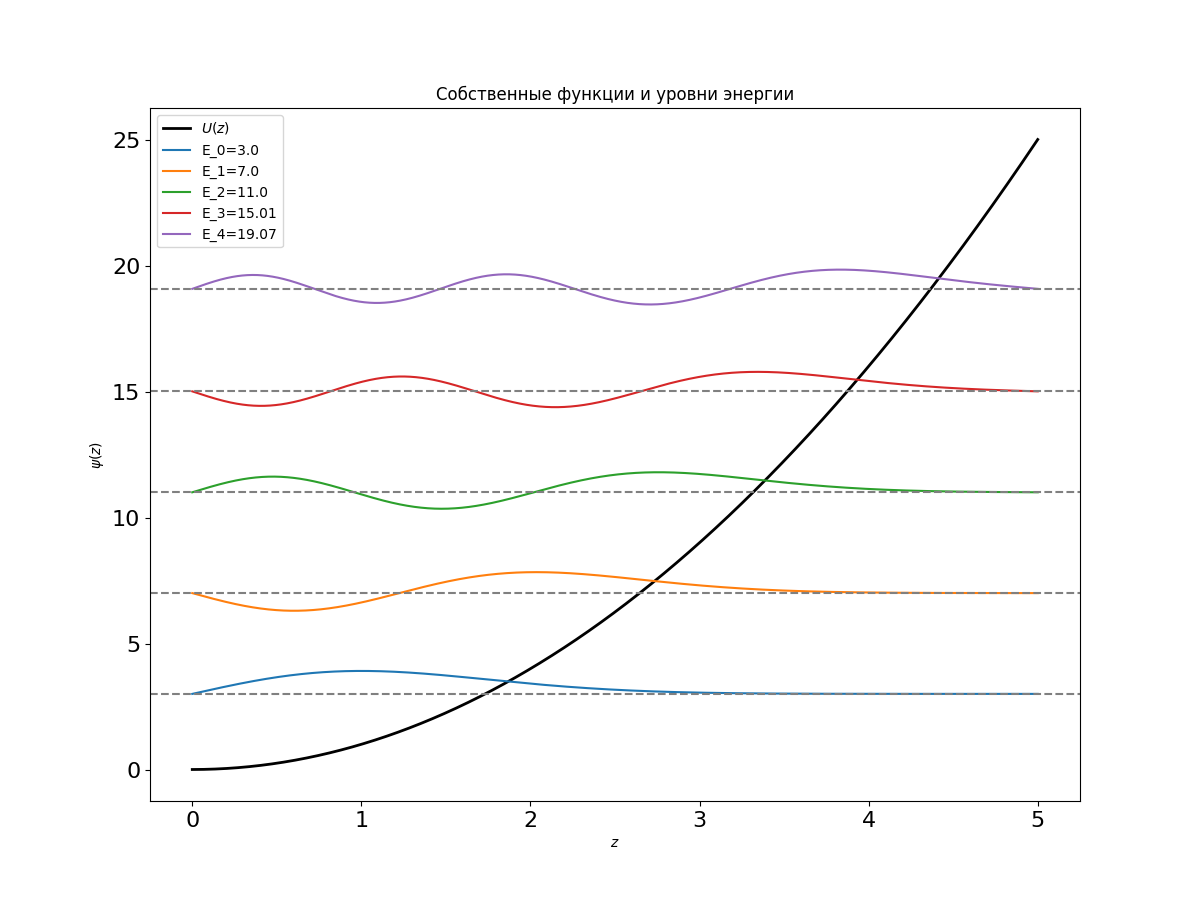
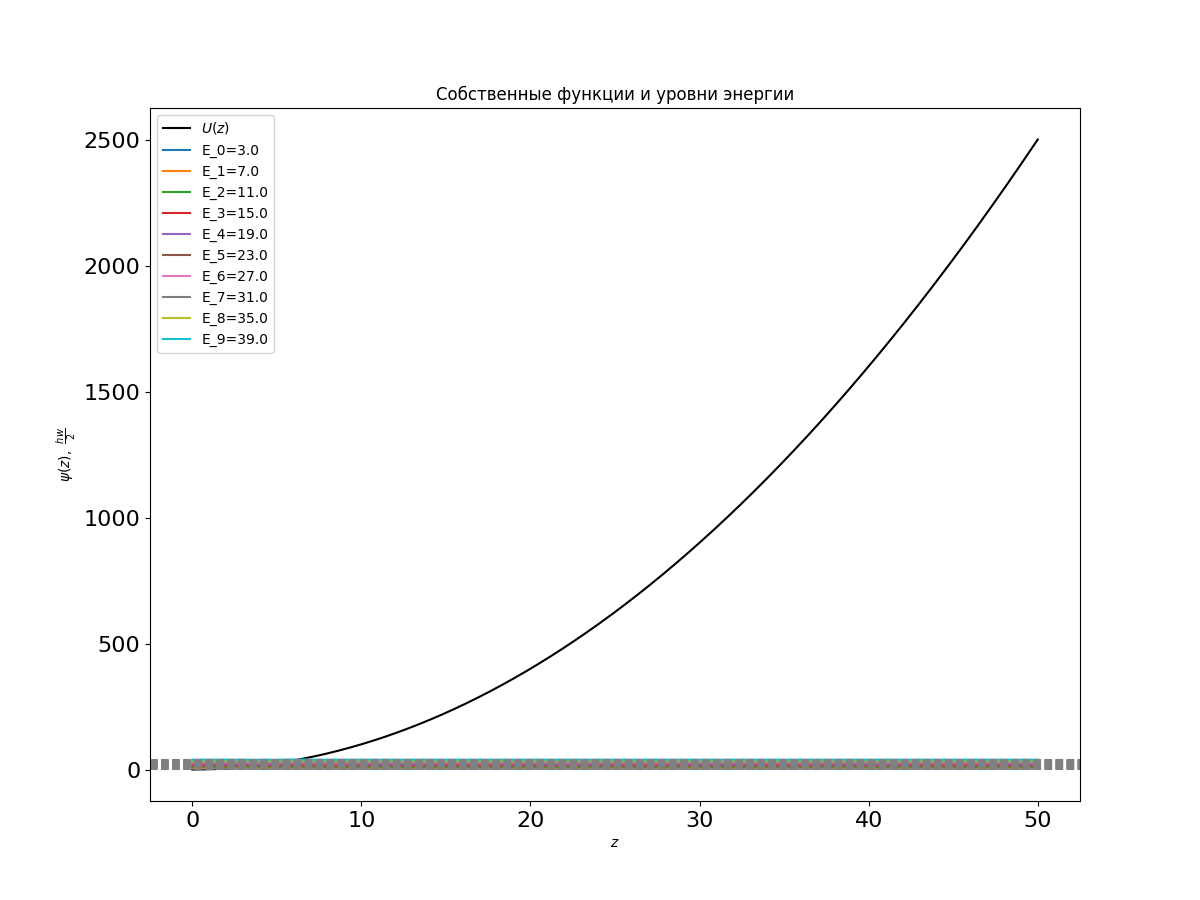
parabola

diff --git a/BasicSolver.py b/BasicSolver.py
@@ -45,7 +45,23 @@ class QuantumWellSolver:
             norm = np.sqrt(np.sum(self.eigenvectors[:, i] ** 2) * self.dz)
             self.eigenvectors[:, i] /= norm
 
-        print([f"E_{i} = {E}" for i, E in enumerate(self.eigenvalues)], sep=";\t")
+    def get_energy(self, printing=True) -> np.ndarray:
+        if self.eigenvalues is None:
+            print("Ничо не посчитано")
+            return np.array([])
+        if printing:
+            print([f"E_{i} = {E}" for i, E in enumerate(self.eigenvalues)], sep=";\t")
+        return self.eigenvalues
+
+    def get_functions(self, printing=True) -> np.ndarray:
+        from pprint import pprint
+
+        if self.eigenvectors is None:
+            print("Ничо не посчитано")
+            return np.array([])
+        if printing:
+            pprint(self.eigenvectors)
+        return self.eigenvectors
 
     def plot_potential(self, path="results/pivo_pot.png"):
         fig, axs = plt.subplots()
@@ -89,16 +105,16 @@ class QuantumWellSolver:
                  }
         c = ["r", "g", "b", "black", "yellow"]
 
-        plt.plot(self.z, self.potential, color='black', label='$U(z)$', lw=2)
+        plt.plot(self.z, self.potential, color='black', label='$U(z)$')
 
         num_levels = min(num_levels_to_plot, len(self.eigenvalues))
 
         for i in range(num_levels):
-            plt.plot(self.z, self.eigenvalues[i] + self.eigenvectors[:, i], label=f"E_{i}={round(self.eigenvalues[i], 2)}")
-            plt.axhline(self.eigenvalues[i], color="gray", linestyle='--')
+            axs.plot(self.z, self.eigenvalues[i] + self.eigenvectors[:, i], label=f"E_{i}={round(self.eigenvalues[i], 2)}")
+            axs.axhline(self.eigenvalues[i], color="gray", linestyle='--')
 
         plt.title("Собственные функции и уровни энергии")
         plt.xlabel(r"$z$")
-        plt.ylabel(r"$\psi(z)$")
+        plt.ylabel(r"$\psi(z),~\frac{hw}{2}$")
         plt.legend()
         plt.savefig(path)

diff --git a/parabola.py b/parabola.py
@@ -1,3 +1,5 @@
+import numpy as np
+
 from BasicSolver import *
 
 
@@ -22,10 +24,36 @@ class HalfParabolicWell(QuantumWellSolver):
         return potential
 
 
-parabola = ParabolicWell(-5, 5, 2000)
-parabola.solve()
-parabola.plot_wavefunctions(path="results/parabola/1_wave.png")
+def check_dependence(energies: np.ndarray, gipotesis=lambda x: 2 * x + 1, path="results/pivo_gipotesis.png"):
+    fig, axs = plt.subplots()
+    plt.tick_params(axis='both', labelsize=16)
+    fig.set_size_inches(12, 9)
+    font1 = {'family': 'serif',
+             'color': 'black',
+             'weight': 'normal',
+             'size': 20,
+             }
+    font2 = {'family': 'serif',
+             'color': 'black',
+             'weight': 'normal',
+             'size': 24,
+             }
+    c = ["r", "g", "b", "black", "yellow"]
+    axs.plot(range(len(energies)), energies, label='Моделирование')
+    axs.plot(range(len(energies)), [gipotesis(i) for i in range(len(energies))], label='Модель')
+    plt.title("Собственные функции и уровни энергии")
+    plt.xlabel(r"n")
+    plt.ylabel(r"$\frac{E}{\frac{hw}{2}}$")
+    plt.legend()
+    plt.savefig(path)
 
-half_parabola = HalfParabolicWell(5, 2000)
-half_parabola.solve(num_levels=5)
+
+parabola = ParabolicWell(-50, 50, 20000)
+parabola.solve(num_levels=100)
+parabola.plot_wavefunctions(path="results/parabola/1_wave.png")
+check_dependence(parabola.get_energy(), lambda x: 2*x + 1, "results/parabola/1_gip.png")
+
+half_parabola = HalfParabolicWell(50, 20000)
+half_parabola.solve(num_levels=50)
 half_parabola.plot_wavefunctions(path="results/half_parabola/1_wave.png")
+check_dependence(half_parabola.get_energy(), lambda x: 4*x + 3, "results/half_parabola/1_gip.png")
